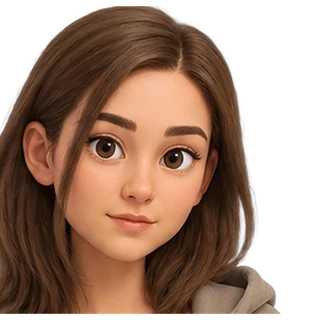
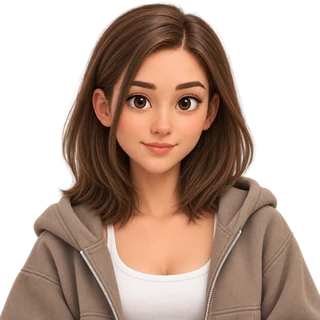
Adopt the three new poses: laptop hero, half-body CTA, square portrait
- The hero pose now carries a laptop. It is also a narrower crop than
  the previous standing pose, so it covers less of the whiteboard and
  all four process steps stay readable.
- The contact CTA takes the half-body crop. Having no feet, it can no
  longer stand on the card's edge, so it sits flush with it and reads
  as leaning over the card to point at the button.
- avatar-profile is now built by resizing the square profile master
  instead of guessing a head crop out of a full-body pose. The output
  filename is unchanged, so every round avatar picks it up.

Claude-Session: https://claude.ai/code/session_01GGGXxEwUq3mxCcGLLtDCrr

diff --git a/en/index.html b/en/index.html
@@ -127,7 +127,7 @@
                 </p>
             </div>
             <figure class="hero-portrait2 u-reveal">
-                <img \ src="../img/person/standing-still.webp" srcset="../img/person/standing-still-450.webp 450w, ../img/person/standing-still.webp 900w" sizes="(max-width: 640px) 62vw, 420px" alt="Gabrielė – developer and product builder" width="900" height="1259" loading="eager" decoding="sync" fetchpriority="high">
+                <img \ src="../img/person/standing-with-loptop.webp" srcset="../img/person/standing-with-loptop-450.webp 450w, ../img/person/standing-with-loptop.webp 900w" sizes="(max-width: 640px) 62vw, 420px" alt="Gabrielė standing, holding a laptop" width="900" height="1591" loading="eager" decoding="sync" fetchpriority="high">
             </figure>
         </div>
     </section> -->
@@ -221,7 +221,7 @@
                 </div>
                 <picture>
                     <source media="(max-width: 1279px)" srcset="../img/person/cross-legs-loptop-450.webp 450w, ../img/person/cross-legs-loptop.webp 900w" sizes="(max-width: 640px) 62vw, 420px">
-                    <img src="../img/person/standing-still.webp" srcset="../img/person/standing-still-450.webp 450w, ../img/person/standing-still.webp 900w" sizes="(max-width: 640px) 62vw, 420px" alt="Gabrielė – developer and product builder" width="900" height="1259" loading="eager" fetchpriority="high" decoding="async">
+                    <img src="../img/person/standing-with-loptop.webp" srcset="../img/person/standing-with-loptop-450.webp 450w, ../img/person/standing-with-loptop.webp 900w" sizes="(max-width: 640px) 62vw, 420px" alt="Gabrielė standing, holding a laptop" width="900" height="1591" loading="eager" fetchpriority="high" decoding="async">
                 </picture>
             </figure>
 
@@ -695,7 +695,7 @@
         <section class="cta-contact">
             <div class="container footer-card-flex">
                 <figure class="person-figure person-cta" aria-hidden="true">
-                    <img src="../img/person/two-fingers-down.webp" srcset="../img/person/two-fingers-down-450.webp 450w, ../img/person/two-fingers-down.webp 900w" sizes="(max-width: 640px) 62vw, 420px" alt="" width="900" height="1297" loading="lazy" decoding="async">
+                    <img src="../img/person/fingers-down-half-body.webp" srcset="../img/person/fingers-down-half-body-450.webp 450w, ../img/person/fingers-down-half-body.webp 900w" sizes="(max-width: 640px) 62vw, 420px" alt="" width="900" height="1173" loading="lazy" decoding="async">
                 </figure>
                 <div class="cta-contact__text">
                     <h3>Have a project in mind?</h3>

diff --git a/lt/index.html b/lt/index.html
@@ -181,10 +181,10 @@
               srcset="../img/person/cross-legs-loptop.webp"
             />
             <img
-              src="../img/person/standing-still.webp" srcset="../img/person/standing-still-450.webp 450w, ../img/person/standing-still.webp 900w" sizes="(max-width: 640px) 62vw, 420px"
-              alt="Gabrielė – programuotoja"
+              src="../img/person/standing-with-loptop.webp" srcset="../img/person/standing-with-loptop-450.webp 450w, ../img/person/standing-with-loptop.webp 900w" sizes="(max-width: 640px) 62vw, 420px"
+              alt="Gabrielė stovi su nešiojamu kompiuteriu"
               width="900"
-              height="1259"
+              height="1591"
               loading="eager"
               fetchpriority="high"
               decoding="async"
@@ -852,7 +852,7 @@
       <section class="cta-contact">
         <div class="container footer-card-flex">
             <figure class="person-figure person-cta" aria-hidden="true">
-                <img src="../img/person/two-fingers-down.webp" srcset="../img/person/two-fingers-down-450.webp 450w, ../img/person/two-fingers-down.webp 900w" sizes="(max-width: 640px) 62vw, 420px" alt="" width="900" height="1297" loading="lazy" decoding="async">
+                <img src="../img/person/fingers-down-half-body.webp" srcset="../img/person/fingers-down-half-body-450.webp 450w, ../img/person/fingers-down-half-body.webp 900w" sizes="(max-width: 640px) 62vw, 420px" alt="" width="900" height="1173" loading="lazy" decoding="async">
             </figure>
           <div class="cta-contact__text">
             <h3>Turite projekto idėją?</h3>

diff --git a/css/person.css b/css/person.css
@@ -93,13 +93,14 @@
 /* ---- Figure standing on the contact CTA card ------------------- */
 
 /*
-  The pointing-down pose stands on the CTA card's top edge and points at
-  the button inside it. It overflows the card upwards, so the section
-  reserves the height it needs instead of letting it collide with
+  The pointing-down pose is a half-body crop, so it has no feet to stand
+  on: it is flush with the card's top edge and reads as leaning over it,
+  pointing at the button inside. It overflows the card upwards, so the
+  section reserves the height it needs rather than colliding with
   whatever section comes before.
 */
 .cta-contact:has(.person-cta) {
-  padding-top: clamp(150px, 19vw, 285px);
+  padding-top: clamp(130px, 16vw, 240px);
 }
 .footer-card-flex:has(.person-cta) {
   position: relative;
@@ -109,11 +110,12 @@
   z-index: 2;
   right: clamp(14px, 3vw, 46px);
   bottom: 100%;
-  margin-bottom: -14px;
+  /* Flush with the card edge - any gap would look like she is floating. */
+  margin-bottom: -2px;
   pointer-events: none;
 }
 .person-cta img {
-  height: clamp(180px, 17vw, 250px);
+  height: clamp(160px, 15vw, 215px);
   /*
     The figure is absolutely positioned with no width of its own, so a
     percentage max-width would resolve against a shrink-to-fit box and
@@ -122,8 +124,8 @@
   max-width: none;
 }
 .person-cta::before {
-  bottom: 12%;
-  width: 125%;
+  bottom: -10%;
+  width: 130%;
 }
 /*
   Below this width the card goes to a stacked layout and the figure has

diff --git a/en/resources/claude-code-guardrails.html b/en/resources/claude-code-guardrails.html
@@ -562,7 +562,7 @@ exit 0</code></pre><!-- /sync -->
         <section class="cta-contact">
             <div class="container footer-card-flex">
                 <figure class="person-figure person-cta" aria-hidden="true">
-                    <img src="../../img/person/two-fingers-down.webp" srcset="../../img/person/two-fingers-down-450.webp 450w, ../../img/person/two-fingers-down.webp 900w" sizes="(max-width: 640px) 62vw, 420px" alt="" width="900" height="1297" loading="lazy" decoding="async">
+                    <img src="../../img/person/fingers-down-half-body.webp" srcset="../../img/person/fingers-down-half-body-450.webp 450w, ../../img/person/fingers-down-half-body.webp 900w" sizes="(max-width: 640px) 62vw, 420px" alt="" width="900" height="1173" loading="lazy" decoding="async">
                 </figure>
                 <div class="cta-contact__text">
                     <h3>Have a project in mind?</h3>

diff --git a/en/about.html b/en/about.html
@@ -271,7 +271,7 @@
         <section class="cta-contact">
             <div class="container footer-card-flex">
                 <figure class="person-figure person-cta" aria-hidden="true">
-                    <img src="../img/person/two-fingers-down.webp" srcset="../img/person/two-fingers-down-450.webp 450w, ../img/person/two-fingers-down.webp 900w" sizes="(max-width: 640px) 62vw, 420px" alt="" width="900" height="1297" loading="lazy" decoding="async">
+                    <img src="../img/person/fingers-down-half-body.webp" srcset="../img/person/fingers-down-half-body-450.webp 450w, ../img/person/fingers-down-half-body.webp 900w" sizes="(max-width: 640px) 62vw, 420px" alt="" width="900" height="1173" loading="lazy" decoding="async">
                 </figure>
                 <div class="cta-contact__text">
                     <h3>Have a project in mind?</h3>

diff --git a/en/portfolio.html b/en/portfolio.html
@@ -914,7 +914,7 @@
         <section class="cta-contact">
             <div class="container footer-card-flex">
                 <figure class="person-figure person-cta" aria-hidden="true">
-                    <img src="../img/person/two-fingers-down.webp" srcset="../img/person/two-fingers-down-450.webp 450w, ../img/person/two-fingers-down.webp 900w" sizes="(max-width: 640px) 62vw, 420px" alt="" width="900" height="1297" loading="lazy" decoding="async">
+                    <img src="../img/person/fingers-down-half-body.webp" srcset="../img/person/fingers-down-half-body-450.webp 450w, ../img/person/fingers-down-half-body.webp 900w" sizes="(max-width: 640px) 62vw, 420px" alt="" width="900" height="1173" loading="lazy" decoding="async">
                 </figure>
                 <div class="cta-contact__text">
                     <h3>Have a project in mind?</h3>

diff --git a/en/resources.html b/en/resources.html
@@ -159,7 +159,7 @@
         <section class="cta-contact">
             <div class="container footer-card-flex">
                 <figure class="person-figure person-cta" aria-hidden="true">
-                    <img src="../img/person/two-fingers-down.webp" srcset="../img/person/two-fingers-down-450.webp 450w, ../img/person/two-fingers-down.webp 900w" sizes="(max-width: 640px) 62vw, 420px" alt="" width="900" height="1297" loading="lazy" decoding="async">
+                    <img src="../img/person/fingers-down-half-body.webp" srcset="../img/person/fingers-down-half-body-450.webp 450w, ../img/person/fingers-down-half-body.webp 900w" sizes="(max-width: 640px) 62vw, 420px" alt="" width="900" height="1173" loading="lazy" decoding="async">
                 </figure>
                 <div class="cta-contact__text">
                     <h3>Have a project in mind?</h3>

diff --git a/lt/portfolio.html b/lt/portfolio.html
@@ -1172,7 +1172,7 @@
       <section class="cta-contact">
         <div class="container footer-card-flex">
             <figure class="person-figure person-cta" aria-hidden="true">
-                <img src="../img/person/two-fingers-down.webp" srcset="../img/person/two-fingers-down-450.webp 450w, ../img/person/two-fingers-down.webp 900w" sizes="(max-width: 640px) 62vw, 420px" alt="" width="900" height="1297" loading="lazy" decoding="async">
+                <img src="../img/person/fingers-down-half-body.webp" srcset="../img/person/fingers-down-half-body-450.webp 450w, ../img/person/fingers-down-half-body.webp 900w" sizes="(max-width: 640px) 62vw, 420px" alt="" width="900" height="1173" loading="lazy" decoding="async">
             </figure>
           <div class="cta-contact__text">
             <h3>Turite projekto idėją?</h3>

diff --git a/lt/about.html b/lt/about.html
@@ -395,7 +395,7 @@
       <section class="cta-contact">
         <div class="container footer-card-flex">
             <figure class="person-figure person-cta" aria-hidden="true">
-                <img src="../img/person/two-fingers-down.webp" srcset="../img/person/two-fingers-down-450.webp 450w, ../img/person/two-fingers-down.webp 900w" sizes="(max-width: 640px) 62vw, 420px" alt="" width="900" height="1297" loading="lazy" decoding="async">
+                <img src="../img/person/fingers-down-half-body.webp" srcset="../img/person/fingers-down-half-body-450.webp 450w, ../img/person/fingers-down-half-body.webp 900w" sizes="(max-width: 640px) 62vw, 420px" alt="" width="900" height="1173" loading="lazy" decoding="async">
             </figure>
           <div class="cta-contact__text">
             <h3>Turite projekto idėją?</h3>

diff --git a/tools/build-person-webp.py b/tools/build-person-webp.py
@@ -23,10 +23,9 @@ SRC = ROOT / "img" / "person"
 WIDTHS = {"": 900, "-450": 450}
 QUALITY = 82
 
-# Head crop for the round profile image, as fractions of the alpha bbox.
-PROFILE_POSE = "standing-still"
-PROFILE_BOX = (0.395, 0.005, 0.700, 0.215)  # left, top, right, bottom
-
+# The round profile image has its own square master.
+PROFILE_SRC = "profile"
+PROFILE_SIZE = 320
 
 def crop_to_alpha(im):
     return im.crop(im.getbbox())
@@ -41,23 +40,22 @@ def save_webp(im, path, width):
 
 def main():
     for src in sorted(SRC.glob("*.png")):
+        if src.stem == PROFILE_SRC:
+            continue  # handled below, as a square portrait
         im = crop_to_alpha(Image.open(src).convert("RGBA"))
         for suffix, width in WIDTHS.items():
             dst = src.with_name(f"{src.stem}{suffix}.webp")
             size = save_webp(im, dst, width)
             print(f"{dst.relative_to(ROOT)}  {size[0]}x{size[1]}  {dst.stat().st_size // 1024} KB")
 
-    # Square headshot, from the same master so the face matches every pose.
-    im = crop_to_alpha(Image.open(SRC / f"{PROFILE_POSE}.png").convert("RGBA"))
-    l, t, r, b = PROFILE_BOX
-    head = im.crop((int(l * im.width), int(t * im.height),
-                    int(r * im.width), int(b * im.height)))
-    side = max(head.size)
-    square = Image.new("RGBA", (side, side), (0, 0, 0, 0))
-    square.paste(head, ((side - head.width) // 2, (side - head.height) // 2), head)
+    # The round profile image: its own square master, so it only needs
+    # resizing - no guessing at where the face sits in a full-body pose.
+    im = Image.open(SRC / f"{PROFILE_SRC}.png").convert("RGBA")
     dst = SRC / "avatar-profile.webp"
-    square.resize((320, 320), Image.LANCZOS).save(dst, "WEBP", quality=88, method=6)
-    print(f"{dst.relative_to(ROOT)}  320x320  {dst.stat().st_size // 1024} KB")
+    im.resize((PROFILE_SIZE, PROFILE_SIZE), Image.LANCZOS).save(
+        dst, "WEBP", quality=88, method=6
+    )
+    print(f"{dst.relative_to(ROOT)}  {PROFILE_SIZE}x{PROFILE_SIZE}  {dst.stat().st_size // 1024} KB")
 
 
 if __name__ == "__main__":
